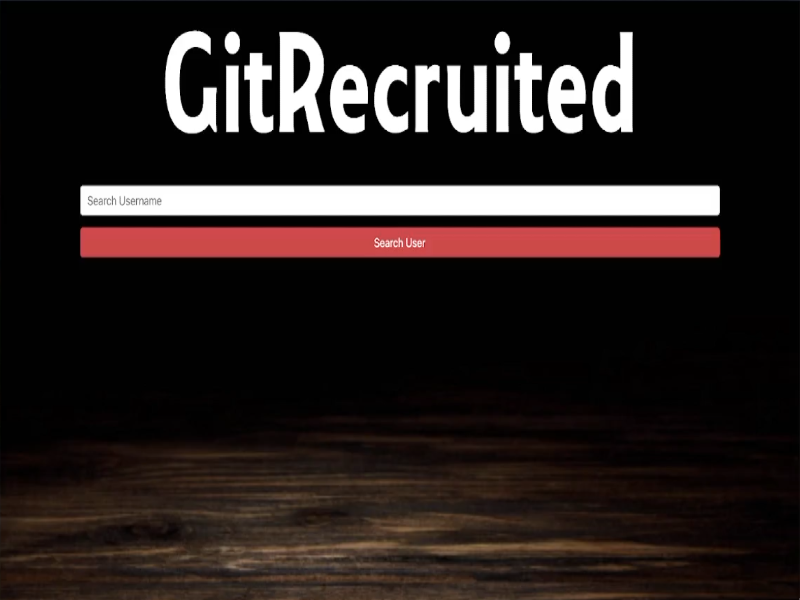
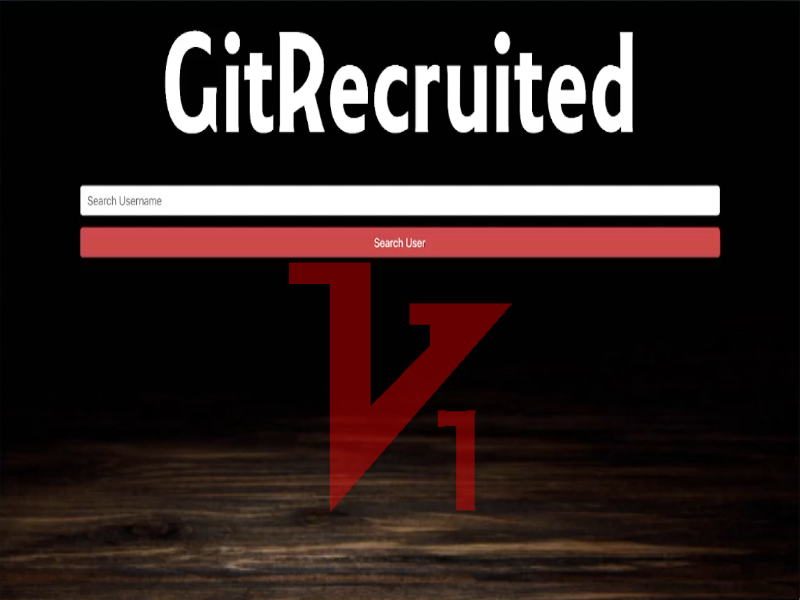
added More Details text to link to individual portfolio details and added version overlays on GitRecruited Projects

Changed region(s): [[0.3438, 0.42, 0.6562, 0.87]]

diff --git a/index.html b/index.html
@@ -533,6 +533,7 @@
 					>
 						<div class="col-lg-4 col-md-6 portfolio-item filter-recruitment">
 							<div class="portfolio-wrap">
+								
 								<img
 									src="assets/img/portfolio-1/800x600.png"
 									class="img-fluid"
@@ -547,7 +548,7 @@
 										><i class="bx bx-plus"></i
 									></a>
 									<a href="portfolio-details-1.html" title="More Details"
-										><i class="bx bx-link"></i
+										><i>More Details</i
 									></a>
 								</div>
 							</div>
@@ -569,7 +570,7 @@
 										><i class="bx bx-plus"></i
 									></a>
 									<a href="portfolio-details-2.html" title="More Details"
-										><i class="bx bx-link"></i
+										><i >More Details</i
 									></a>
 								</div>
 							</div>
@@ -591,7 +592,7 @@
 										><i class="bx bx-plus"></i
 									></a>
 									<a href="portfolio-details-3.html" title="More Details"
-										><i class="bx bx-link"></i
+										><i >More Details</i
 									></a>
 								</div>
 							</div>
@@ -613,7 +614,7 @@
 										><i class="bx bx-plus"></i
 									></a>
 									<a href="portfolio-details-4.html" title="More Details"
-										><i class="bx bx-link"></i
+										><i >More Details</i
 									></a>
 								</div>
 							</div>
@@ -635,7 +636,7 @@
 										><i class="bx bx-plus"></i
 									></a>
 									<a href="portfolio-details-5.html" title="More Details"
-										><i class="bx bx-link"></i
+										><i >More Details</i
 									></a>
 								</div>
 							</div>
